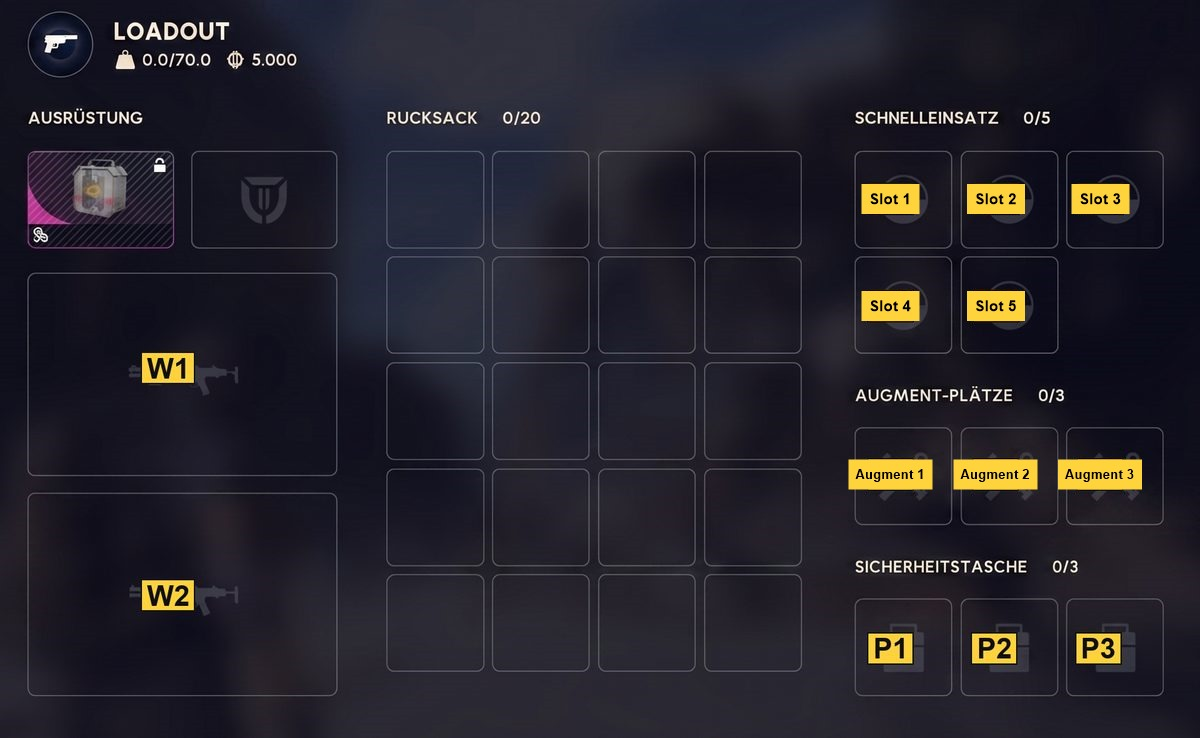
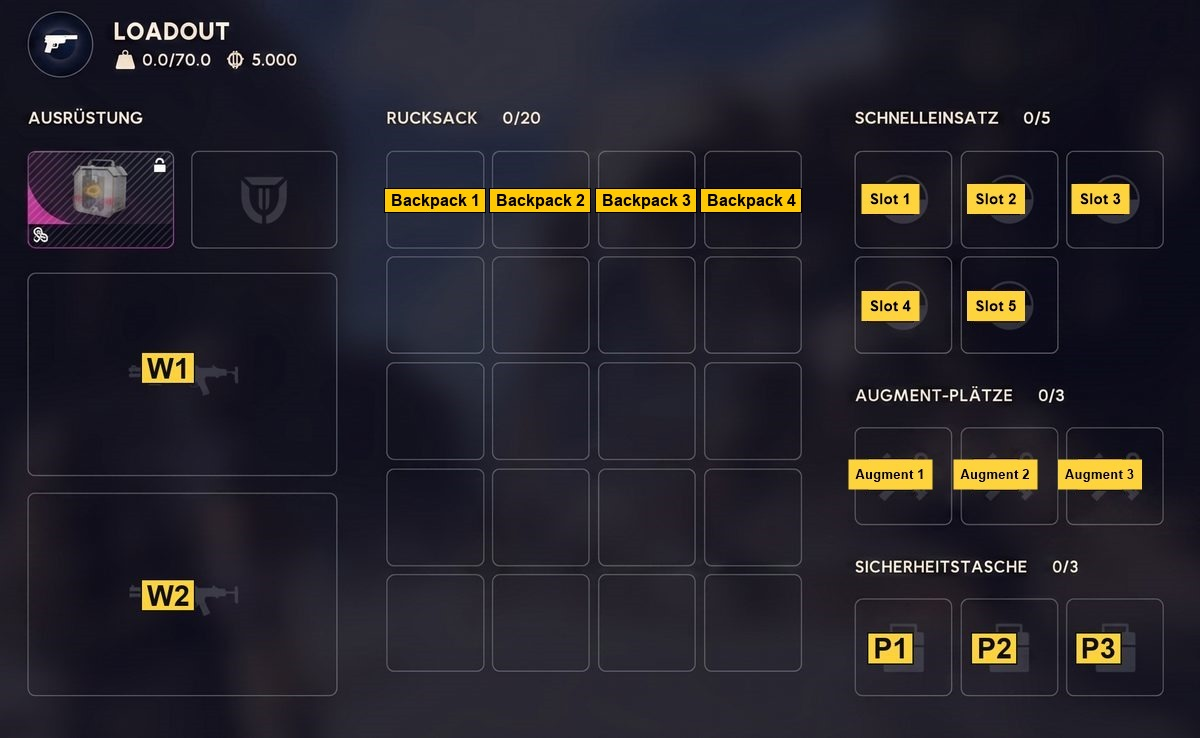
QuickSave guide: backpack slots 1-4 in the table, setup steps and screenshot

Changed region(s): [[0.3083, 0.2493, 0.6783, 0.3117]]

diff --git a/docs/QuickSave_Guide.md b/docs/QuickSave_Guide.md
@@ -36,11 +36,12 @@ QuickSave can drag items between any of these positions:
 | Slot 1–5 | Quick-deploy slots (Schnelleinsatz 1–5) |
 | Augment 1–3 | Augment slots (Augment-Plätze 1–3) |
 | W1–W2 | Weapon slots (Ausrüstung) |
+| Backpack 1–4 | Top row of the backpack, left to right (Rucksack) |
 | P1–P3 | Safe Pockets (Sicherheitstasche 1–3) |
 
-> The **From** and **To** fields are simple dropdowns — the labels are named exactly like the in-game inventory groups, so just pick **Slot 1–5**, **Augment 1–3**, **W1/W2** or **P1–P3**.
+> The **From** and **To** fields are simple dropdowns — the labels are named exactly like the in-game inventory groups, so just pick **Slot 1–5**, **Augment 1–3**, **W1/W2**, **Backpack 1–4** or **P1–P3**.
 
-[![QuickSave Slot Overview](https://raw.githubusercontent.com/BrightRaider/BrightRaider/main/assets/screenshots/Quicksave.jpg?v=2)](https://raw.githubusercontent.com/BrightRaider/BrightRaider/main/assets/screenshots/Quicksave.jpg?v=2)
+[![QuickSave Slot Overview](https://raw.githubusercontent.com/BrightRaider/BrightRaider/main/assets/screenshots/Quicksave.jpg?v=3)](https://raw.githubusercontent.com/BrightRaider/BrightRaider/main/assets/screenshots/Quicksave.jpg?v=3)
 
 > **Tip:** Use it to move consumables (bandages, syringes) into your Safe Pocket before an extraction, or retrieve them quickly at the start of a raid.
 
@@ -53,8 +54,8 @@ QuickSave can drag items between any of these positions:
 3. Check **"Enable QuickSave"**
 4. For each preset you want to use:
    - Click **"Click to bind..."** and press your trigger key (keyboard key or MB3/4/5 or mouse wheel)
-   - Pick **From** — the source position (Slot 1–5, Augment 1–3, W1/W2 weapons, or P1–P3 pockets)
-   - Pick **To** — the destination position (Slot 1–5, Augment 1–3, W1/W2, or P1–P3)
+   - Pick **From** — the source position (Slot 1–5, Augment 1–3, W1/W2 weapons, Backpack 1–4, or P1–P3 pockets)
+   - Pick **To** — the destination position (Slot 1–5, Augment 1–3, W1/W2, Backpack 1–4, or P1–P3)
    - Check **Active** (✓) to enable this preset
    - Check **Tab open** if you want BrightRaider to open the inventory with Tab first
    - Check **Tab close** if you want BrightRaider to close the inventory with Tab after
